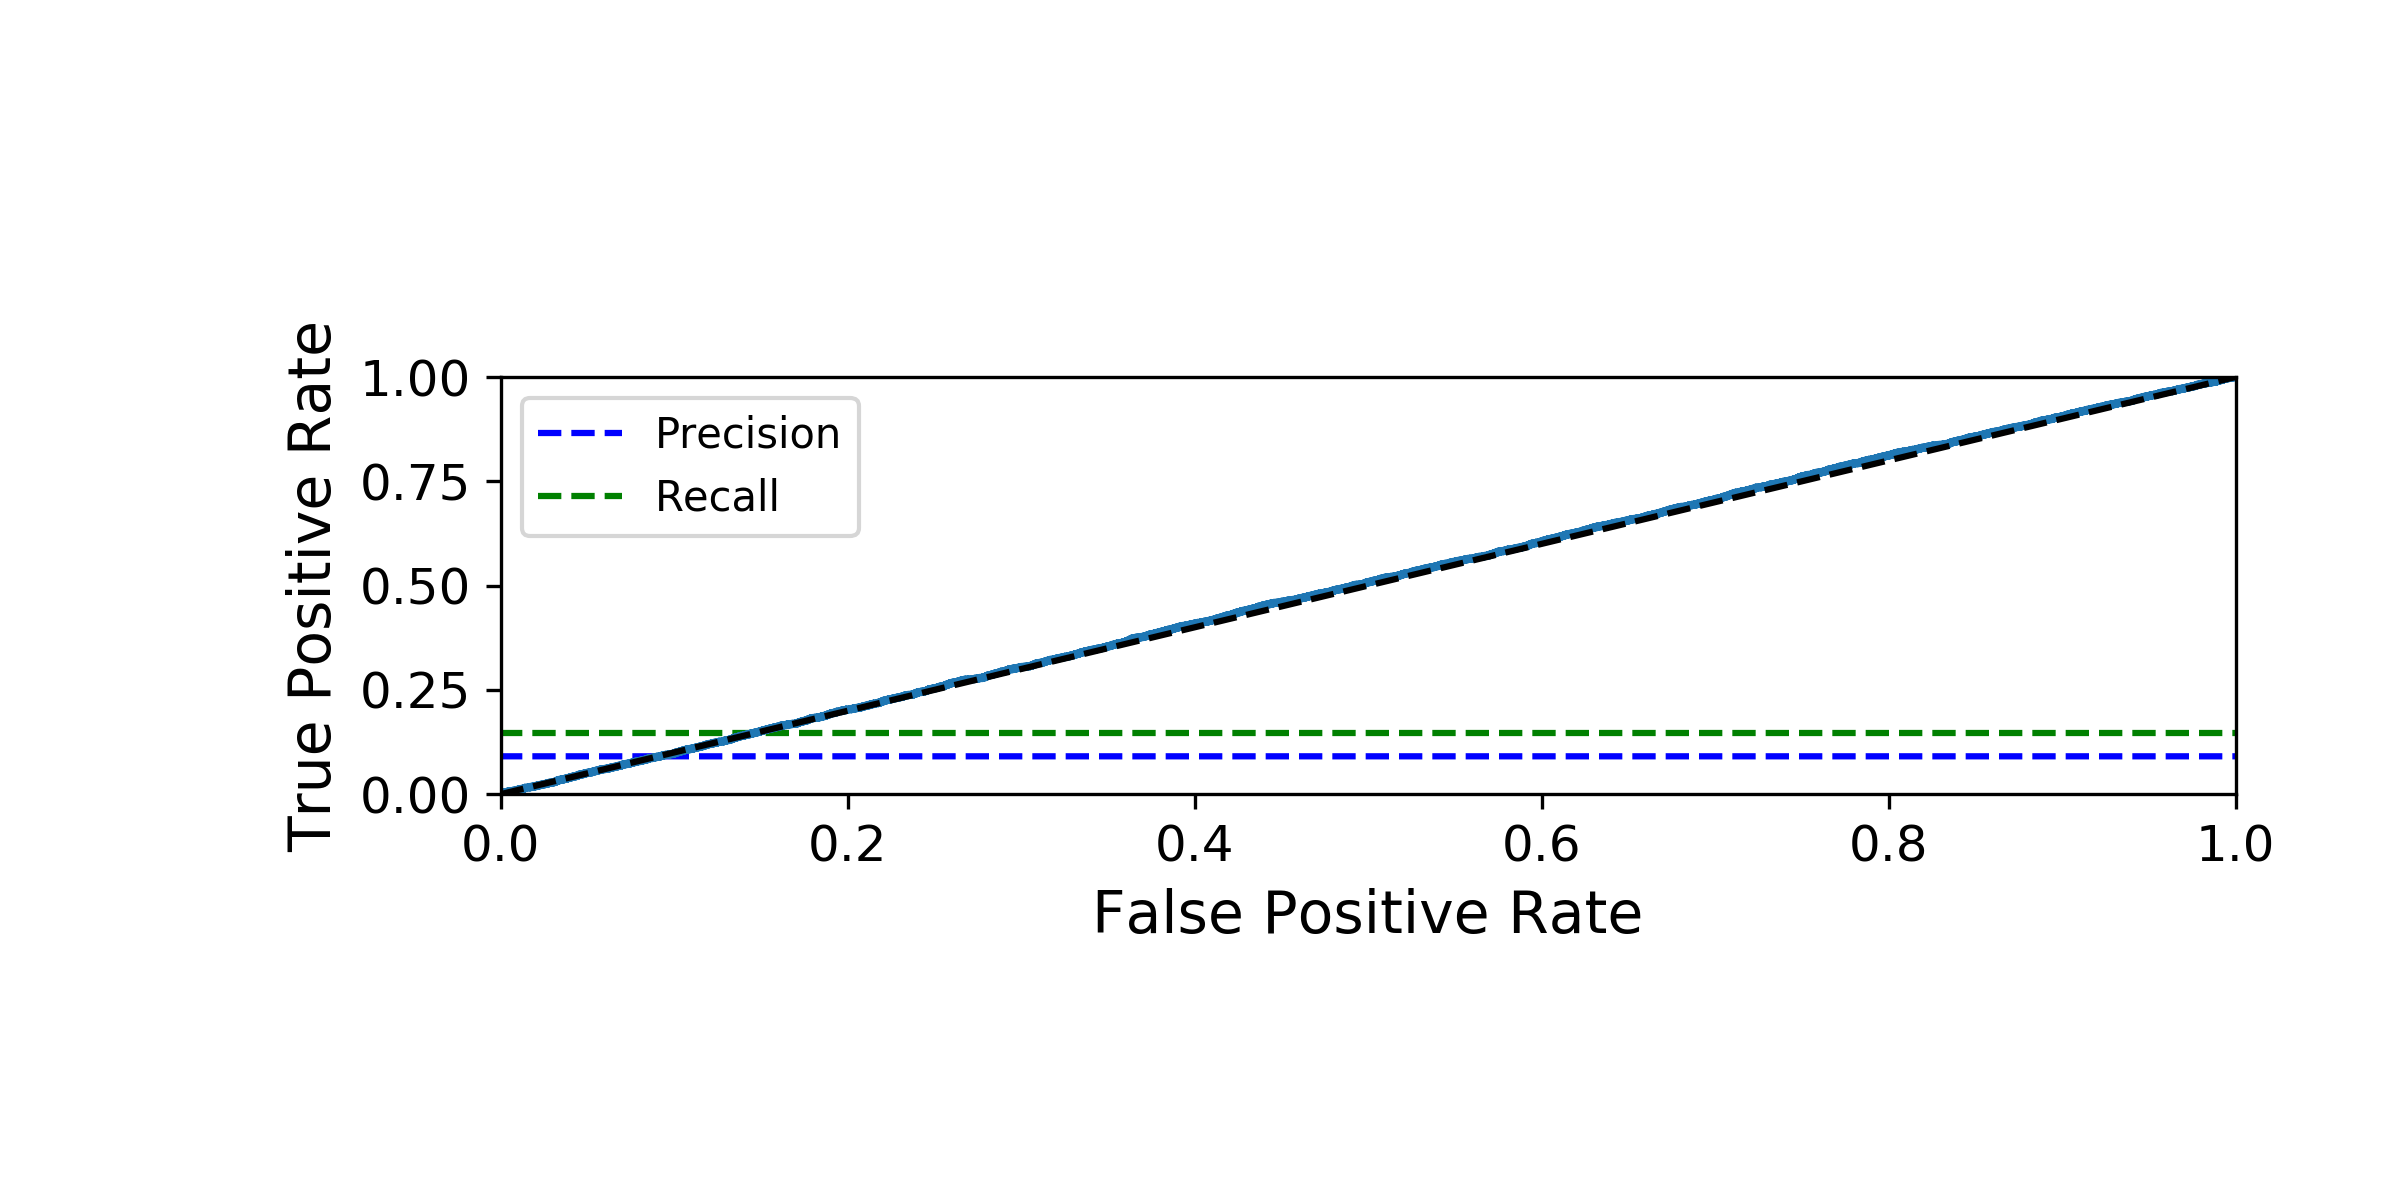
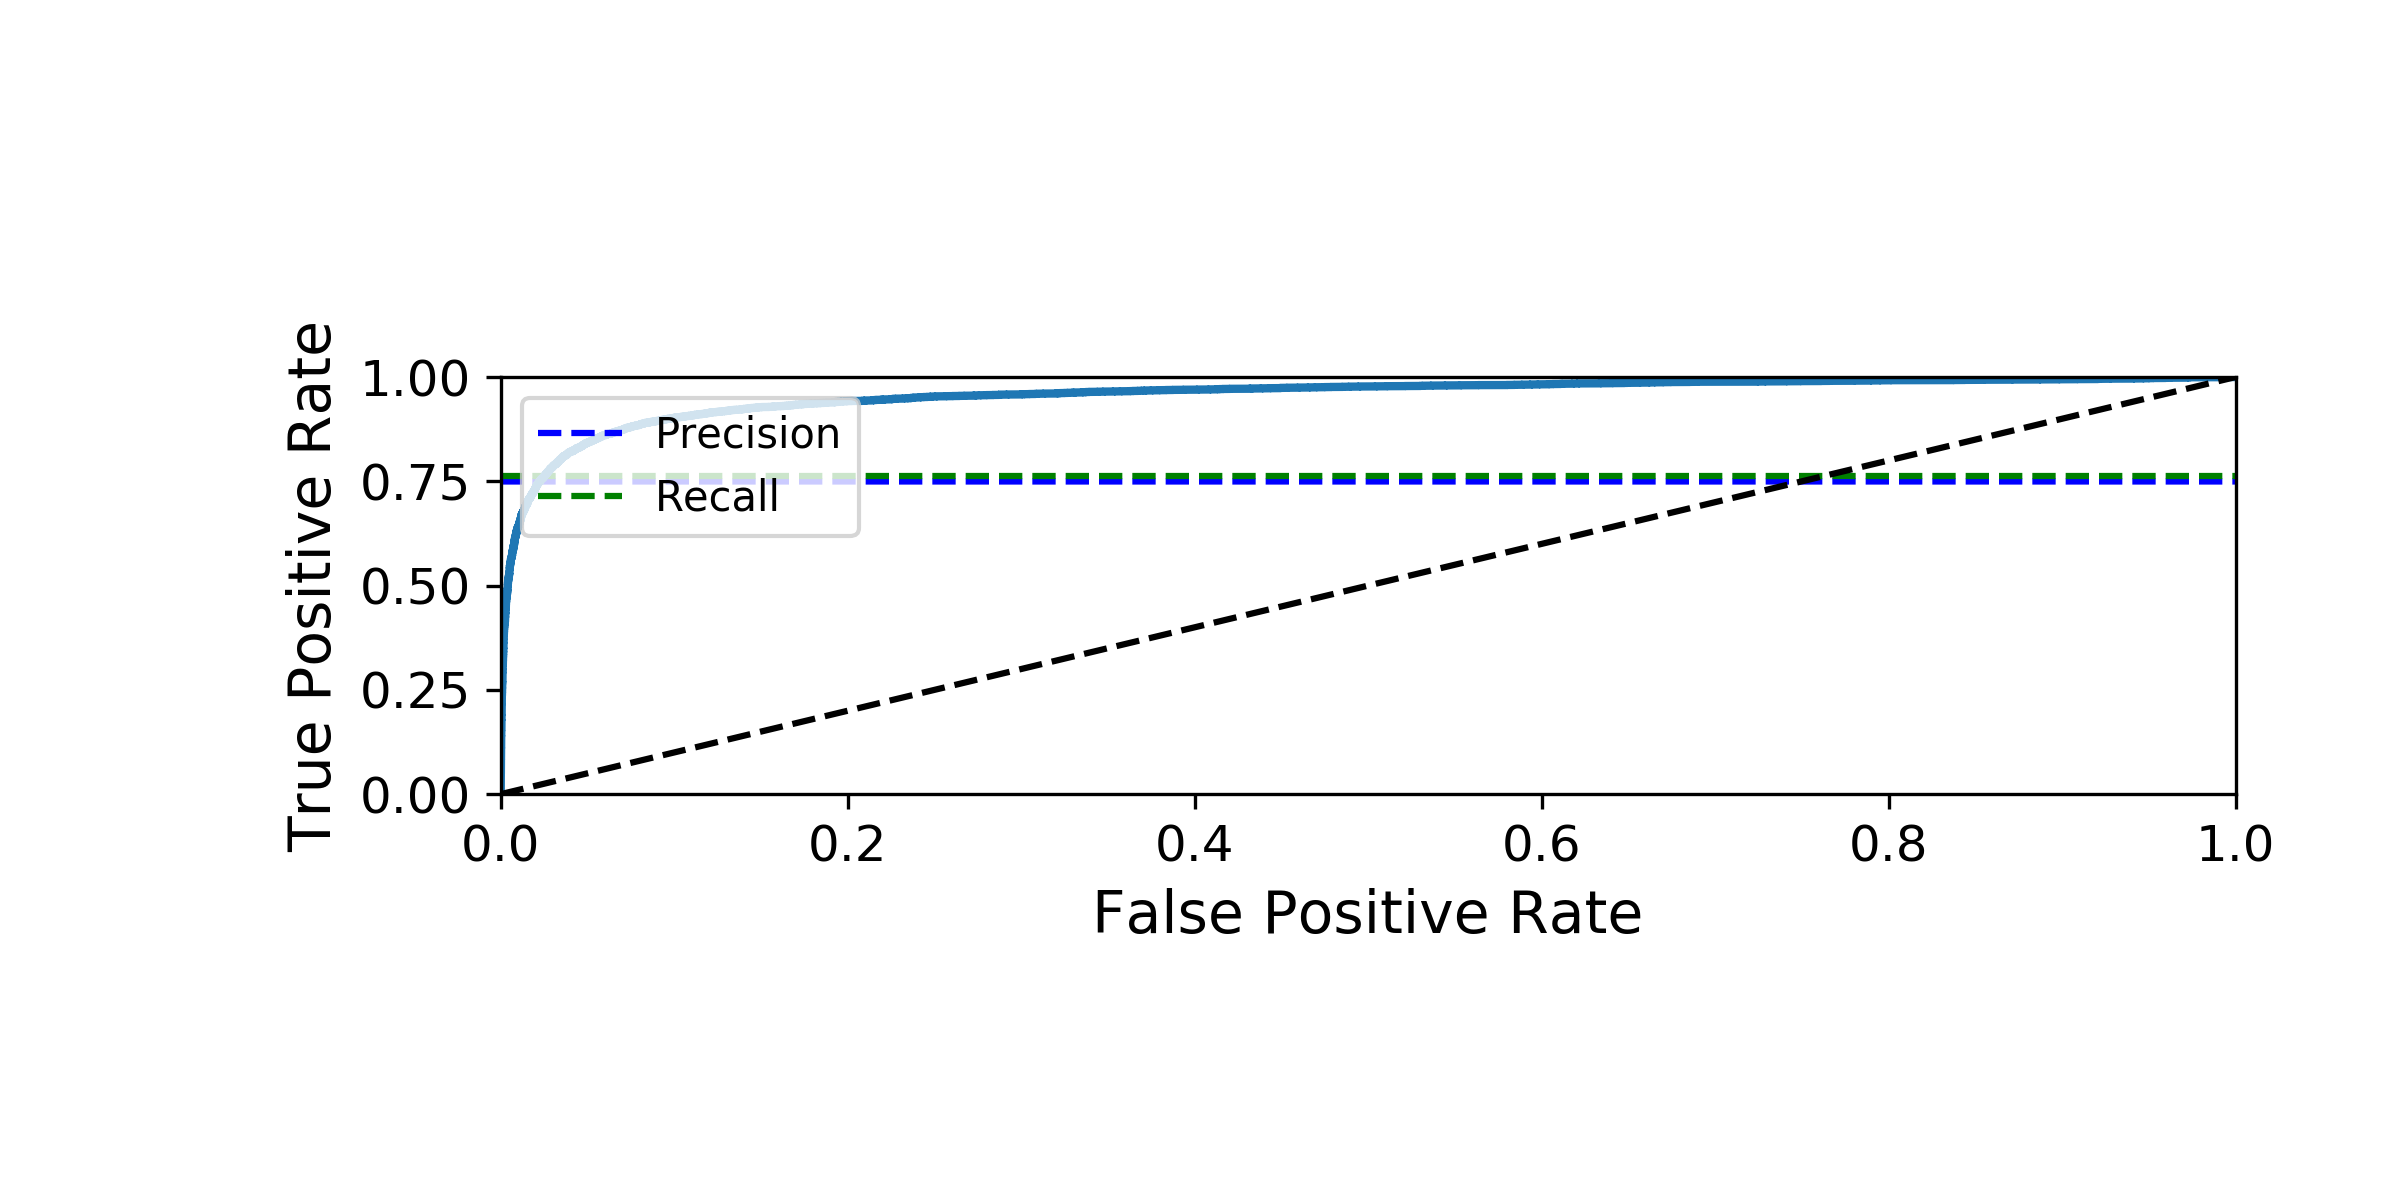
find and fixed a bug

diff --git a/Classification/Classification.py b/Classification/Classification.py
@@ -11,6 +11,7 @@ import sklearn.linear_model
 import sklearn.model_selection
 import sklearn.base
 import sklearn.metrics
+import sklearn.ensemble
 
 plt.rcParams["axes.labelsize"] = 14
 plt.rcParams["xtick.labelsize"] = 12
@@ -98,7 +99,7 @@ save_fig("more_digits_plot")
 # Since MNIST dataset has been already separated into training set and test set
 X_train, X_test, y_train, y_test = X[:60000], X[60000:], y[:60000], y[60000:]
 shuffle_index = rnd.permutation(60000)  # this will guarantee that all cross-validation folds will be similar
-X_train, y_trian = X_train[shuffle_index], y_train[shuffle_index]
+X_train, y_train = X_train[shuffle_index], y_train[shuffle_index]
 """
 permutation(x):
 Randomly permute a sequence, or return a permuted range.
@@ -180,8 +181,8 @@ print(sklearn.metrics.confusion_matrix(y_train_5, y_train_pred))
 4532 correctly classified as 5s (true positive)
 """
 # Let's see how a confusion Matrix looks like when the classifier has a 100% accuracy:
-y_train_perfect_prediction = y_train_5
-print(sklearn.metrics.confusion_matrix(y_train_5, y_train_perfect_prediction))
+# y_train_perfect_prediction = y_train_5
+# print(sklearn.metrics.confusion_matrix(y_train_5, y_train_perfect_prediction))
 
 # Precision and Recall
 sklearn.metrics.precision_score(y_train_5, y_train_pred)  # precision = TP/(TP+FP)
@@ -237,7 +238,7 @@ fpr, tpr, thresholds = sklearn.metrics.roc_curve(y_train_5, y_scores)
 
 def plot_roc_curve(fpr, tpr, label=None):
     """
-    plot the FPR aganst the TPR using Matplotlib.
+    plot the FPR against the TPR using Matplotlib.
     :param fpr: 
     :param tpr: 
     :param label: 
@@ -249,5 +250,18 @@ def plot_roc_curve(fpr, tpr, label=None):
     plt.xlabel("False Positive Rate")
     plt.ylabel("True Positive Rate")
 
+
 plot_roc_curve(fpr, tpr)
 save_fig("False_Positive_Rate")
+# Try a ForestClassifier
+forest_clf = sklearn.ensemble.RandomForestClassifier(random_state=42)
+y_probas_forest = sklearn.model_selection.cross_val_predict(forest_clf, X_train, y_train_5, cv=3,
+                                                            method="predict_proba")
+y_scores_forest = y_probas_forest[:, 1]  # score = proba of positive class
+fpr_forest, tpr_forest, thresholds_forest = sklearn.metrics.roc_curve(y_train_5, y_scores_forest)
+
+plt.figure(figsize=(8, 6))
+plt.plot(fpr, tpr, "b:", linewidth=2, label="Random Forest")
+plt.legend(loc="lower right", fontsize=16)
+save_fig("roc_curve_comparison_plot")
+
